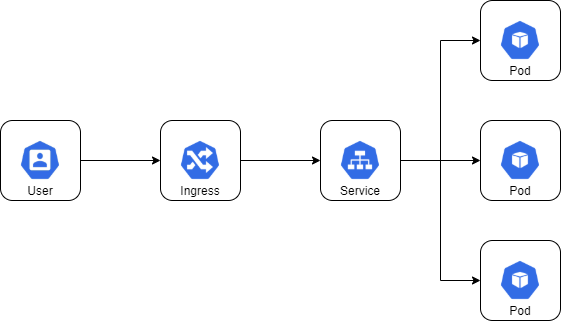
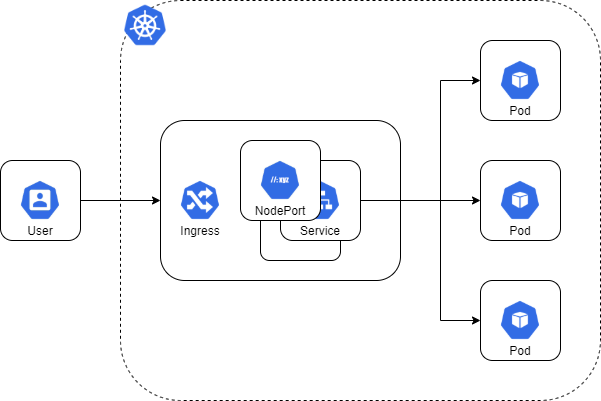
more details

diff --git a/kubernetes.md b/kubernetes.md
@@ -16,13 +16,14 @@ kubectl create namespace my-namespace
 kubectl get namespace # or ns
 ```
 
-## Ingress vs LoadBalancer vs NodePort
+## Kubernetes Service Types Overview
 
 In Kubernetes, an Ingress is an object that allows access to your Kubernetes services from outside the Kubernetes cluster.
 These options all do the same thing. They let you expose a service to external network requests.
 
 | Type | LoadBalancer | Notes |
 | :--- | --- | :--: |
+| ClusterIP | ![ClusterIP](https://raw.githubusercontent.com/c4xp/Devops04/master/assets/clusterip.png) | Can only be reached from within the Kubernetes cluster. |
 | NodePort | ![NodePort](https://raw.githubusercontent.com/c4xp/Devops04/master/assets/nodeport.png) | Kubernetes will allocate a specific port on each Node to that service, and any request to your cluster on that port gets forwarded to the service. |
 | LoadBalancer | ![LoadBalancer](https://raw.githubusercontent.com/c4xp/Devops04/master/assets/loadbalancer.png) | There needs to be some external load balancer functionality in the cluster, typically implemented by a cloud provider. |
 | Ingress | ![Ingress](https://raw.githubusercontent.com/c4xp/Devops04/master/assets/ingress.png) | Ingress is a completely independent resource to your service. You declare, create and destroy it separately to your services. This makes it decoupled and isolated from the services you want to expose. It also helps you to consolidate routing rules into one place. |
@@ -31,12 +32,152 @@ These options all do the same thing. They let you expose a service to external n
 https://qiita.com/yosshi_/items/2db0a0e66a16711bfe5f
 -->
 
-## Service
+### 1. ClusterIP
+
+![ClusterIP](https://raw.githubusercontent.com/c4xp/Devops04/master/assets/clusterip.png)
+
+ClusterIP is the default and most common service type.
+Kubernetes will assign a cluster-internal IP address to ClusterIP service. This makes the service only reachable within the cluster.
+
+#### **USE CASE**
+Inter service communication within the cluster.
+
+Example
+```
+apiVersion: v1
+kind: Service
+metadata:
+  name: my-backend-service
+  namespace: default
+  labels:
+    app: tutorial
+spec:
+  # Optional field (default)
+  type: ClusterIP
+  # within service cluster ip range
+  clusterIP: 10.10.0.1
+  ports:
+  - name: http
+    protocol: TCP
+    port: 80
+    targetPort: 8080
+```
+
+### 2. NodePort
+
+![NodePort](https://raw.githubusercontent.com/c4xp/Devops04/master/assets/nodeport.png)
+
+NodePort service is an extension of ClusterIP service.
+It exposes the service outside of the cluster by adding a cluster-wide port on top of ClusterIP.
+
+#### **USE CASE**
+When you want to enable external connectivity to your service.
+Freedom to set up your own load balancing solution.
+
+Example
+```
+apiVersion: v1
+kind: Service
+metadata:
+  name: my-database
+  namespace: default
+  labels:
+    app: tutorial
+spec:
+  type: NodePort
+  ports:
+    # Inside the cluster, what port does the service expose?
+    - port: 3306
+      protocol: TCP
+      # Which external port will be available on the node?
+      nodePort: 30336
+      # Optional: Which targetPort do pods selected by this service expose?
+  selector:
+    app: tutorial
+    tier: database
+```
+
+### 3. LoadBalancer
+
+![LoadBalancer](https://raw.githubusercontent.com/c4xp/Devops04/master/assets/loadbalancer.png)
+
+LoadBalancer service is an extension of NodePort service. NodePort and ClusterIP Services, to which the external load balancer routes, are automatically created.
+
+#### **USE CASE**
+When you are using a cloud provider to host your Kubernetes cluster.
+
+Example
+```
+apiVersion: v1
+kind: Service
+metadata:
+  name: my-frontend-service
+  namespace: default
+spec:
+  type: LoadBalancer
+  clusterIP: 10.0.171.123
+  loadBalancerIP: 123.123.123.123
+  selector:
+    app: tutorial
+  ports:
+  - name: http
+    protocol: TCP
+    port: 80
+    targetPort: 8080
+```
+
+### 4. Ingress
+
+![Ingress](https://raw.githubusercontent.com/c4xp/Devops04/master/assets/ingress.png)
+
+Ingress is not actually a Service type, but it acts as the entry point for your cluster. It lets you consolidate your routing rules into a single resource as it can expose multiple services under the same IP address.
+
+Example
+```
+apiVersion: v1
+kind: Service
+metadata:
+  name: my-service
+  namespace: default
+  labels:
+    app: tutorial
+spec:
+  ports:
+    - port: 80
+  selector:
+    app: tutorial
+    tier: app
+---
+apiVersion: extensions/v1beta1
+kind: Ingress
+metadata:
+  name: mktcom-ingress
+  namespace: default
+spec:
+  rules:
+    - host: www.pentalog.com
+      http:
+        paths:
+        - backend:
+            serviceName: mktcom-service
+            servicePort: 80
+          path: /
+    - host: pentalog.com
+      http:
+        paths:
+        - backend:
+            serviceName: mktcom-service
+            servicePort: 80
+          path: /
+  tls:
+  - hosts:
+    - www.pentalog.com
+    secretName: pentalogcom
+```
 
 ## Deployment
-nodes
-pods
-service
+
+
 
 ## ConfigMaps
 

diff --git a/README.md b/README.md
@@ -101,9 +101,18 @@ Enter the password that we captured from the file at /var/jenkins_home/secrets/i
 
 ![Jenkins-initial](https://raw.githubusercontent.com/c4xp/Devops04/master/assets/jenkins-initial.png)
 
+## Plugins
+
 I recommend just installing the recommended plugins first up. You can always add or remove plugins later.
 
 ![Jenkins-plugins](https://raw.githubusercontent.com/c4xp/Devops04/master/assets/jenkins-plugins.png)
+
+Some other plugins I use:
+[Git parameter](https://plugins.jenkins.io/git-parameter)
+[AnsiColor](https://plugins.jenkins.io/ansicolor)
+[Build with Parameters](https://plugins.jenkins.io/build-with-parameters)
+[Github](https://plugins.jenkins.io/github)
+[Kubernetes Credentials](https://plugins.jenkins.io/kubernetes-credentials)
 
 ![Questions](https://raw.githubusercontent.com/c4xp/Devops04/master/assets/questions.png)
 
